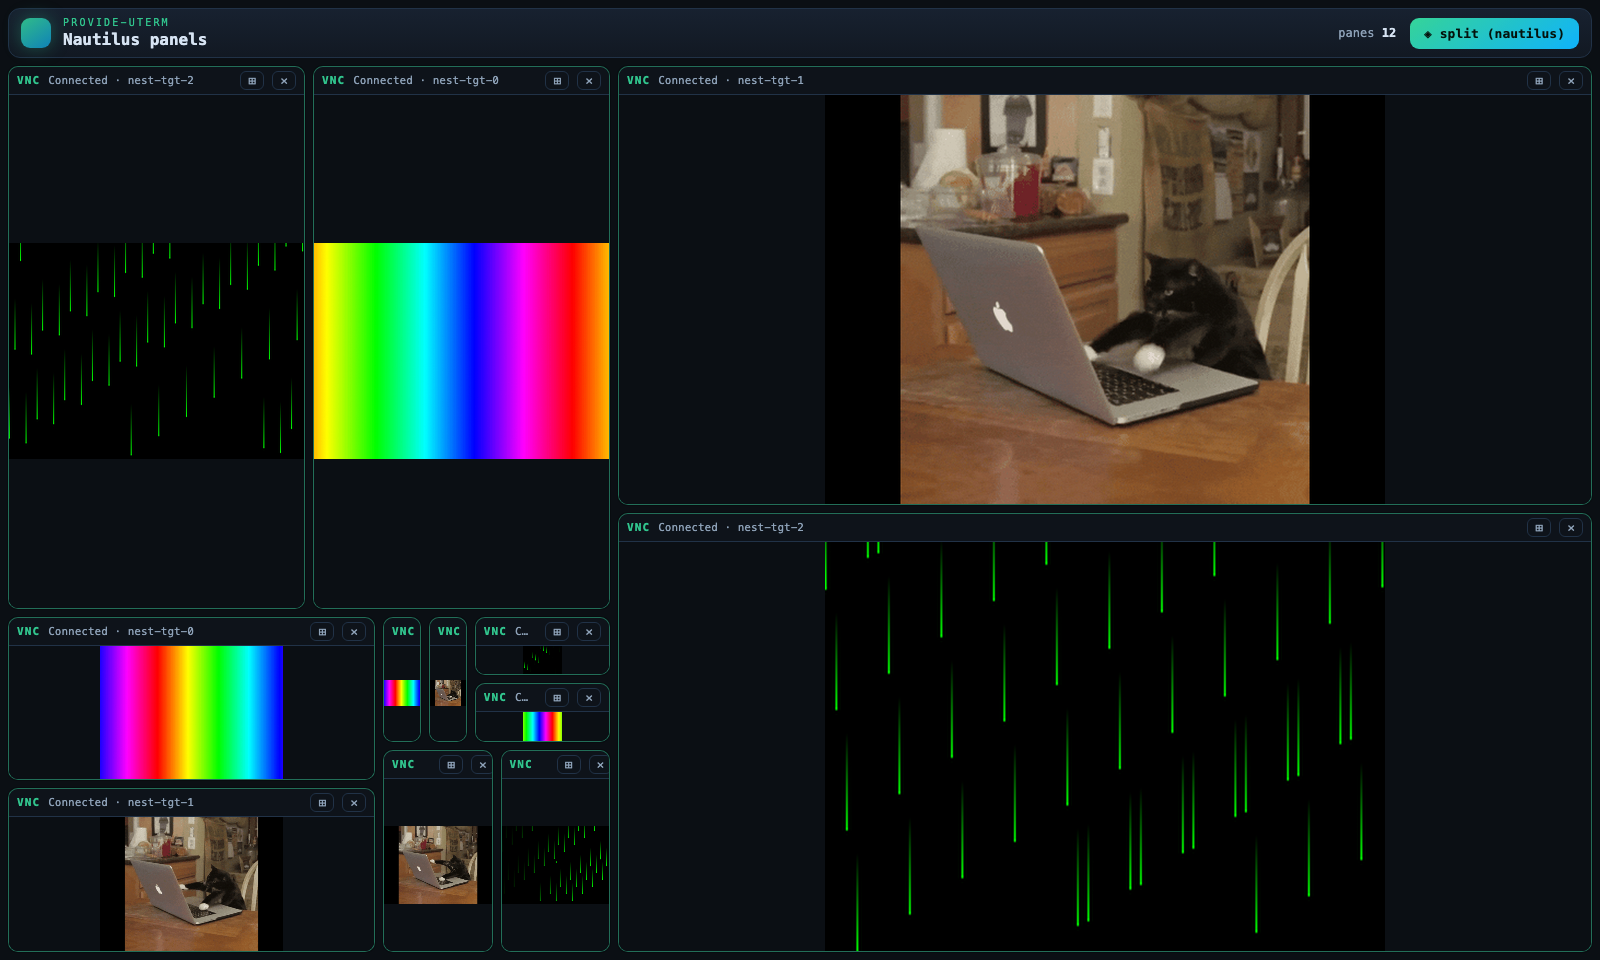
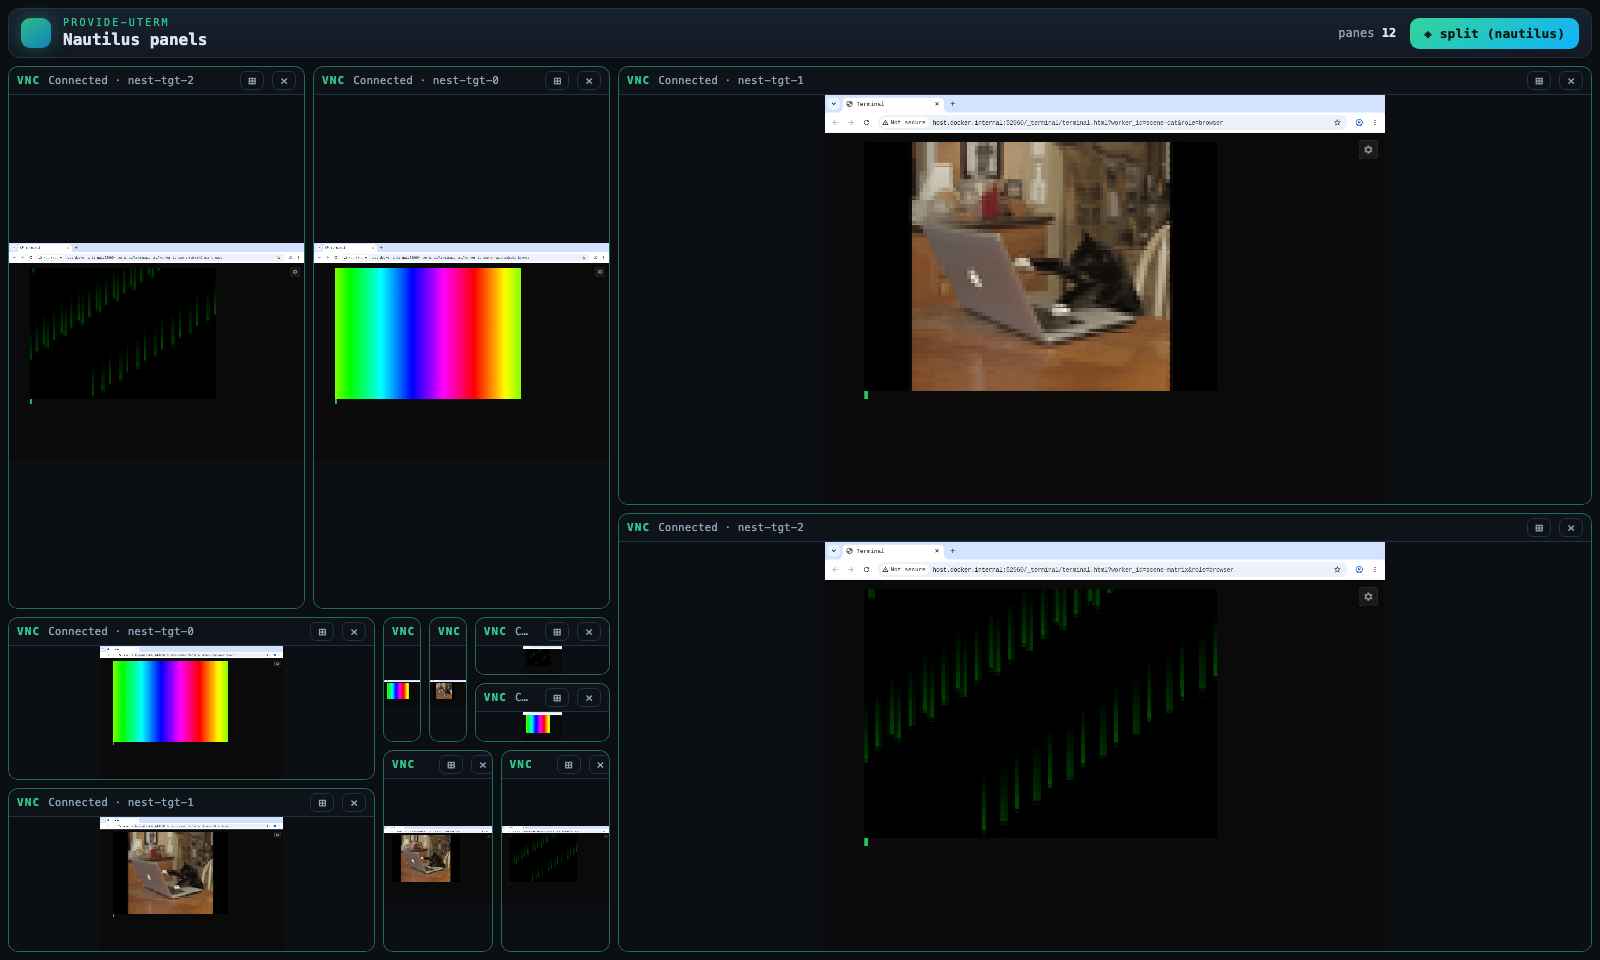
feat(demo): nest the scenes as VNC -> browser -> terminal -> ANSI
Restore the full nesting instead of playing GIFs natively with mpv: each lab
Chromium views a ushell session's terminal.html, and the session renders its
GIF (rainbow / keyboard cat / matrix) as looping truecolor ANSI. This is the
platform's real story on screen. It works because xterm.js repaints each
streamed frame AND presents it to Xvfb (a raw canvas/rAF animation does not —
that mislead the earlier mpv detour), and the relay update-driver streams the
motion on to the noVNC panes. Drop the now-unused mpv from the vnc-lab image and
its entrypoint scene branch.

diff --git a/scripts/record_uterm_vnc_panels_demo.py b/scripts/record_uterm_vnc_panels_demo.py
@@ -5,14 +5,15 @@
 #
 """Record the recursive "nautilus" tiling panels page with distinct live scenes.
 
-Each of the three lab RFB targets natively plays a *different* animated scene (a
-rainbow gradient, a blinking cat, matrix rain) via mpv, which blits whole decoded
-frames to Xvfb — so x11vnc streams clean, tear-free motion to the already
-connected noVNC pane. (A nested Chromium never presents animation frames to Xvfb
-at all, and a software terminal tears mid-draw; mpv avoids both.) The nautilus
-panes fan out across the three targets, so the tiling shows multiple *distinct*
-VNC feeds that actually animate. Panes shrink as the spiral winds inward via
-noVNC's scale-viewport.
+The full nesting on show is **VNC → browser → terminal → pixelated ANSI scene**:
+each of the three lab RFB targets is a Chromium viewing a *different* ushell
+session's ``terminal.html``, and each session ``render``s its GIF (a rainbow
+gradient, the keyboard cat, matrix rain) as looping truecolor ANSI. xterm.js
+repaints each streamed frame and — unlike a raw canvas — presents it to Xvfb, so
+x11vnc captures the motion; the relay's update-driver then streams it on to the
+noVNC panes. The nautilus panes fan out across the three targets, so the tiling
+shows multiple *distinct* nested feeds that actually animate. Panes shrink as the
+spiral winds inward via noVNC's scale-viewport.
 
 Usage (repo root)::
 
@@ -40,18 +41,17 @@ import prove_vnc_lab as vnc_lab  # noqa: E402
 import record_uterm_vnc_demo_video as base  # noqa: E402
 import record_uterm_vnc_nested_demo as nested  # noqa: E402
 
-# (id, display label, scene GIF filename). One per lab target so each VNC pane
-# shows a visibly different *animated* scene; mpv loops the GIF natively in the
-# lab, so the panes actually play.
+# (ushell session id, display label, scene GIF filename). One per lab target so
+# each VNC pane shows a visibly different *animated* scene, rendered as looping
+# ANSI in that session's terminal.
 SCENES = [
     ("scene-rainbow", "Rainbow", "rainbow.gif"),
     ("scene-cat", "Cat", "cat.gif"),
     ("scene-matrix", "Matrix", "matrix.gif"),
 ]
 
-# Animated-GIF geometry. mpv decodes the GIF and blits whole frames to X, so the
-# per-frame duration (≈14 fps) drives smooth, tear-free playback; mpv scales the
-# clip up to the lab framebuffer.
+# Animated-GIF geometry. The GIF sources the frames the ushell `render` command
+# turns into looping ANSI (its per-frame duration sets the playback cadence).
 _SCENE_W, _SCENE_H = 320, 180
 _SCENE_FRAMES = 16
 _SCENE_DURATION_MS = 70
@@ -59,8 +59,8 @@ _SCENE_DURATION_MS = 70
 # The "cat" scene plays the real keyboard-cat GIF the non-VNC shell_render sample
 # renders (fetched host-side at record time; falls back to a drawn cat offline).
 _KEYBOARD_CAT_URL = "https://media.giphy.com/media/JIX9t2j0ZTN9S/giphy.gif"
-# Letterbox target aspect ≈ the lab framebuffer (1280x936) so mpv's edge-to-edge
-# stretch doesn't distort the square source clip.
+# Letterbox the square source clip onto a ~4:3 canvas so the cat keeps its aspect
+# when `render` samples it down to the terminal's character grid.
 _CAT_CANVAS = (512, 374)
 
 
@@ -98,7 +98,7 @@ def _rainbow_frames() -> list[Any]:
 def _cat_piano_frames() -> list[Any]:
     """A cat playing a piano: paws bounce on the keys (which light up), the head
     bobs and blinks, and eighth-notes drift up. Drawn with ImageDraw for crisp
-    shapes; every frame differs so mpv plays it smoothly.
+    shapes; every frame differs so it renders as a lively ANSI loop.
     """
     import math
 
@@ -220,7 +220,7 @@ def _fetch_keyboard_cat_gif(out_path: Path) -> bool:
 
 
 def _generate_scenes(out_dir: Path) -> None:
-    """Write three distinct *animated* GIF scenes mpv loops in each lab."""
+    """Write three distinct *animated* GIF scenes the ushell render turns to ANSI."""
     out_dir.mkdir(parents=True, exist_ok=True)
     _save_gif(_rainbow_frames(), out_dir / "rainbow.gif")
     if not _fetch_keyboard_cat_gif(out_dir / "cat.gif"):
@@ -229,13 +229,25 @@ def _generate_scenes(out_dir: Path) -> None:
 
 
 def _write_panels_config(path: Path, *, host: str, port: int) -> None:
-    """Server config: N VNC-lease workers + N graphical (RFB) targets.
+    """Server config: N ushell scene sessions + N VNC-lease workers + N RFB targets.
 
-    The scenes are played natively inside each lab (see ``_start_scene_lab``), so
-    the server only needs the lease workers the panes hijack and the RFB targets
-    (the lab containers) it relays to — no ushell scene sessions.
+    Each scene is a ushell session that ``render``s its GIF as looping ANSI; a lab
+    Chromium views that session's ``terminal.html``, and the panes mirror the lab
+    over VNC — so the tiling is VNC → browser → terminal → the pixelated scene.
     """
     blocks: list[str] = []
+    for sid, label, _fname in SCENES:
+        blocks.append(
+            f"""
+[[sessions]]
+session_id = "{sid}"
+display_name = "{label}"
+connector_type = "ushell"
+input_mode = "hijack"
+auto_start = true
+tags = ["scene"]
+"""
+        )
     for wk in nested.NEST_LEASE_WORKERS:
         blocks.append(
             f"""
@@ -295,53 +307,26 @@ block_private_connector_targets = false
     path.write_text(body, encoding="utf-8")
 
 
-def _start_scene_lab(*, name: str, host_plain: int, gif_path: Path) -> None:
-    """Start one lab container that plays *gif_path* natively via mpv.
+def _drive_render(base_url: str, headers: dict[str, str], session: str, gif_path: Path) -> None:
+    """Render *gif_path* as looping truecolor ANSI into the ushell *session*.
 
-    ``SCENE_MEDIA`` flips the entrypoint into scene mode (mpv loop) instead of
-    launching Chromium. The clip is ``docker cp``-ed into ``/scene`` after boot
-    rather than bind-mounted, because host scratchpad/evidence paths are not
-    always shareable with the Docker VM; the entrypoint waits for it to land.
+    ushell reports ``input_mode=open`` on hello, so switch it to hijack, acquire a
+    lease, and feed ``render --loop``. A snapshot request afterwards re-caches the
+    rendered screen so a browser connecting later opens straight onto the scene.
+    xterm.js repaints each streamed frame (and, unlike a raw canvas, presents it to
+    Xvfb), so the lab's terminal — and the VNC mirror of it — actually animates.
     """
-    vnc_lab._remove_container(name)
-    result = subprocess.run(
-        [
-            "docker",
-            "run",
-            "-d",
-            "--name",
-            name,
-            "--shm-size",
-            vnc_lab.DEFAULT_SHM,
-            "--add-host=host.docker.internal:host-gateway",
-            "-p",
-            f"{host_plain}:{vnc_lab.RFB_PLAIN_PORT}",
-            "-e",
-            "SCENE_MEDIA=/scene/scene.gif",
-            "-e",
-            f"GEOMETRY={nested.LAB_GEOMETRY}",
-            vnc_lab.IMAGE_NAME,
-        ],
-        capture_output=True,
-        text=True,
-        timeout=60,
-        check=False,
+    base.http_json("POST", f"{base_url}/worker/{session}/input_mode", headers=headers, body={"input_mode": "hijack"})
+    hid = nested._acquire_lease(base_url, headers, session)
+    base.send_shell_keys(
+        base_url,
+        headers,
+        hid,
+        f"render --loop --cols 96 --rows 30 file://{gif_path.resolve()}\r",
+        session=session,
     )
-    if result.returncode != 0:
-        raise RuntimeError(f"docker run {name} failed: {result.stderr.strip()[:400]}")
-    # Create /scene and copy the clip in (docker cp needs no host file-sharing).
-    subprocess.run(
-        ["docker", "exec", name, "mkdir", "-p", "/scene"], capture_output=True, text=True, timeout=30, check=False
-    )
-    cp = subprocess.run(
-        ["docker", "cp", str(gif_path.resolve()), f"{name}:/scene/scene.gif"],
-        capture_output=True,
-        text=True,
-        timeout=60,
-        check=False,
-    )
-    if cp.returncode != 0:
-        raise RuntimeError(f"docker cp scene clip to {name} failed: {cp.stderr.strip()[:400]}")
+    time.sleep(0.4)
+    base.http_json("GET", f"{base_url}/worker/{session}/hijack/{hid}/snapshot", headers=headers)
 
 
 def main(argv: list[str] | None = None) -> int:
@@ -391,10 +376,28 @@ def main(argv: list[str] | None = None) -> int:
         base.prove.wait_http(f"{base_url}/readyz", timeout=60.0)
         lines.append(f"server_ready={base_url}")
 
-        # Each lab natively plays a *different* scene (rainbow / cat / matrix) via
-        # mpv, so the VNC panes are visibly distinct AND animate cleanly.
-        for (name, port), gif_path in zip(zip(lab_names, nested.NEST_PORTS, strict=True), gif_paths, strict=True):
-            _start_scene_lab(name=name, host_plain=port, gif_path=gif_path)
+        # Render each scene's GIF as looping ANSI into its ushell session.
+        for (sid, _label, _fname), gif_path in zip(SCENES, gif_paths, strict=True):
+            for _ in range(80):
+                st, body = base.http_json("GET", f"{base_url}/api/sessions/{sid}", headers=headers)
+                if st == 200 and isinstance(body, dict) and body.get("connected"):
+                    break
+                time.sleep(0.15)
+            else:
+                raise RuntimeError(f"scene session {sid} never connected")
+            _drive_render(base_url, headers, sid, gif_path)
+        time.sleep(1.5)
+        lines.append("scenes_rendered=ok")
+
+        # Each lab is a Chromium viewing a *different* scene's terminal.html, so the
+        # tiling shows VNC → browser → terminal → the distinct pixelated ANSI scene.
+        for (name, port), (sid, _label, _fname) in zip(
+            zip(lab_names, nested.NEST_PORTS, strict=True), SCENES, strict=True
+        ):
+            demo_url = (
+                f"http://{base._HOST_FROM_DOCKER}:{server_port}/_terminal/terminal.html?worker_id={sid}&role=browser"
+            )
+            nested._start_nested_lab(name=name, demo_url=demo_url, host_plain=port)
             if not nested._wait_lab_rfb(name):
                 raise RuntimeError(f"lab {name} RFB never ready")
         lines.append("scene_labs_ready=ok")
